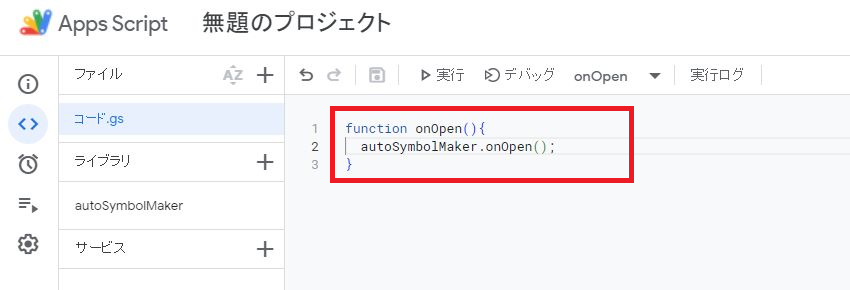
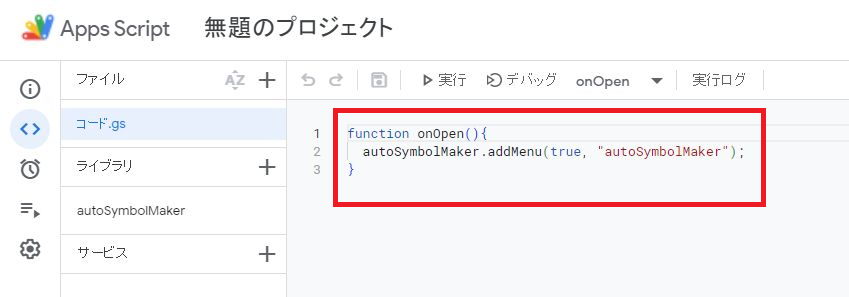
fixed contents of auto creation

diff --git a/src/AutoCharacterSymbolCreation.jsx b/src/AutoCharacterSymbolCreation.jsx
@@ -6,6 +6,7 @@ import newTab from "./newTab.png"
 import showDetail from "./showDetail.png"
 import movePage from "./movePage.png"
 import copyText from "./copyText.png"
+import selectVersion from "./selectVersion.png"
 import ProgressCard from "./ProgressCard";
 import styled from "styled-components";
 
@@ -28,11 +29,12 @@ const textareaStyles = {
 const ImgDiv = styled.div`
     background-color: #ccc;
     padding: 10px;
+    width: fit-content;
 `;
 
 function AutoCharacterSymbolCreation(props){
     const code = `function onOpen(){
-    autoSymbolMaker.onOpen();
+    autoSymbolMaker.addMenu(true, "autoSymbolMaker");
 }`;
     return <PageBase header={props.header}>
         <ProgressCard title="Apps Script起動">
@@ -51,7 +53,7 @@ function AutoCharacterSymbolCreation(props){
             <div style={quoteStyles}>
                 1qmpCc1LGZjZHeatuEE9YtNDS8BkaS5n6ttFGuhaYoJmNORv0SVBDQcqr
             </div>
-            このIDを検索欄に貼り付け、検索して追加。バージョンはHEADか2。
+            このIDを検索欄に貼り付け、検索してそのまま追加。
         </ProgressCard>
         <ProgressCard title="コード呼び出し">
             最初からあるコード.gsの中身を次のものに書き換える。
